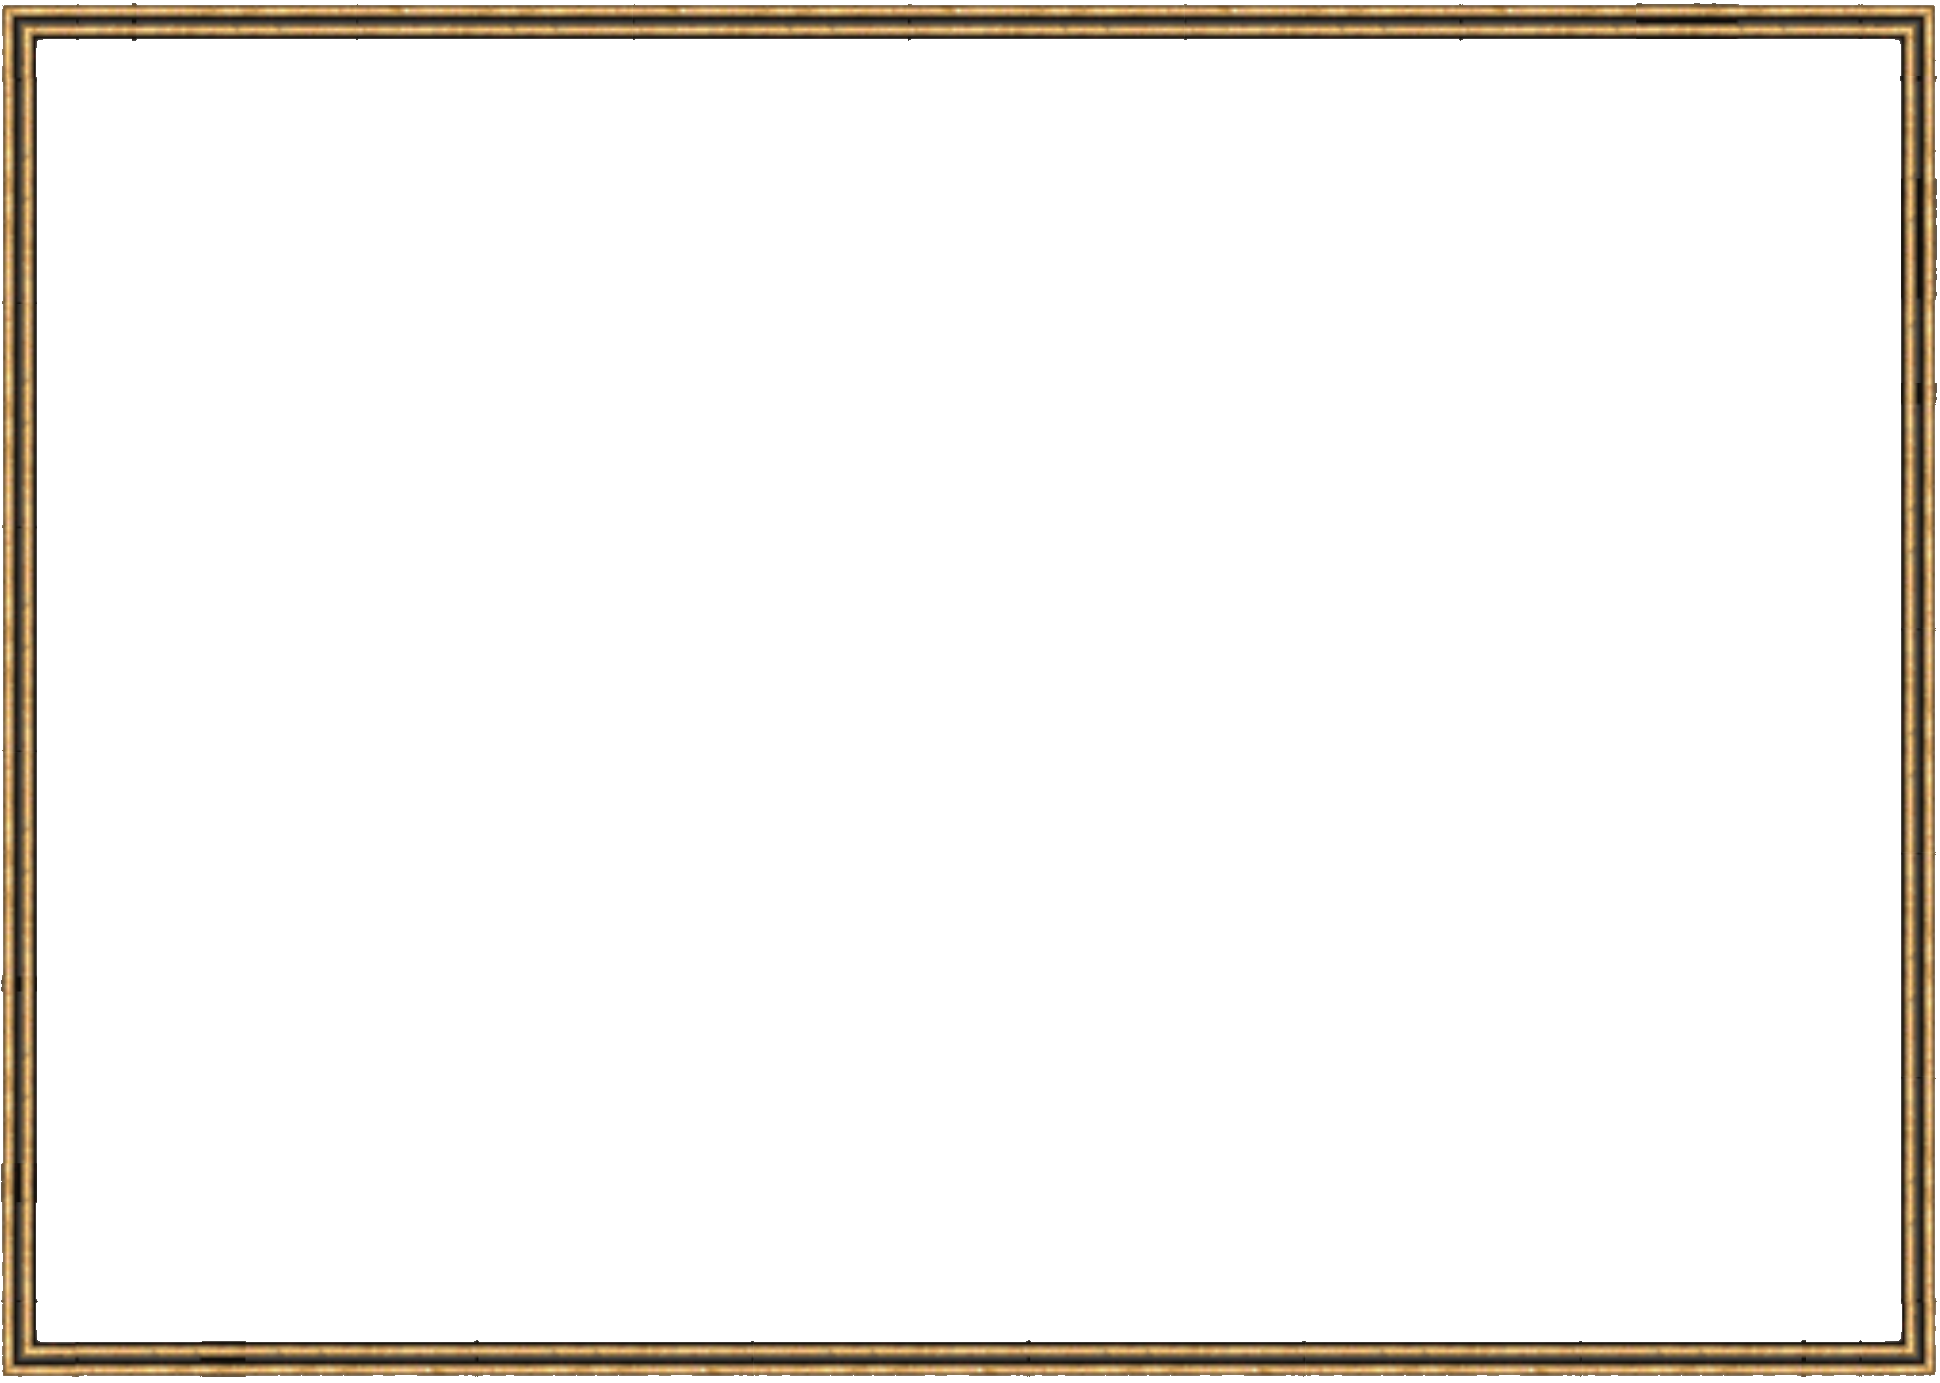
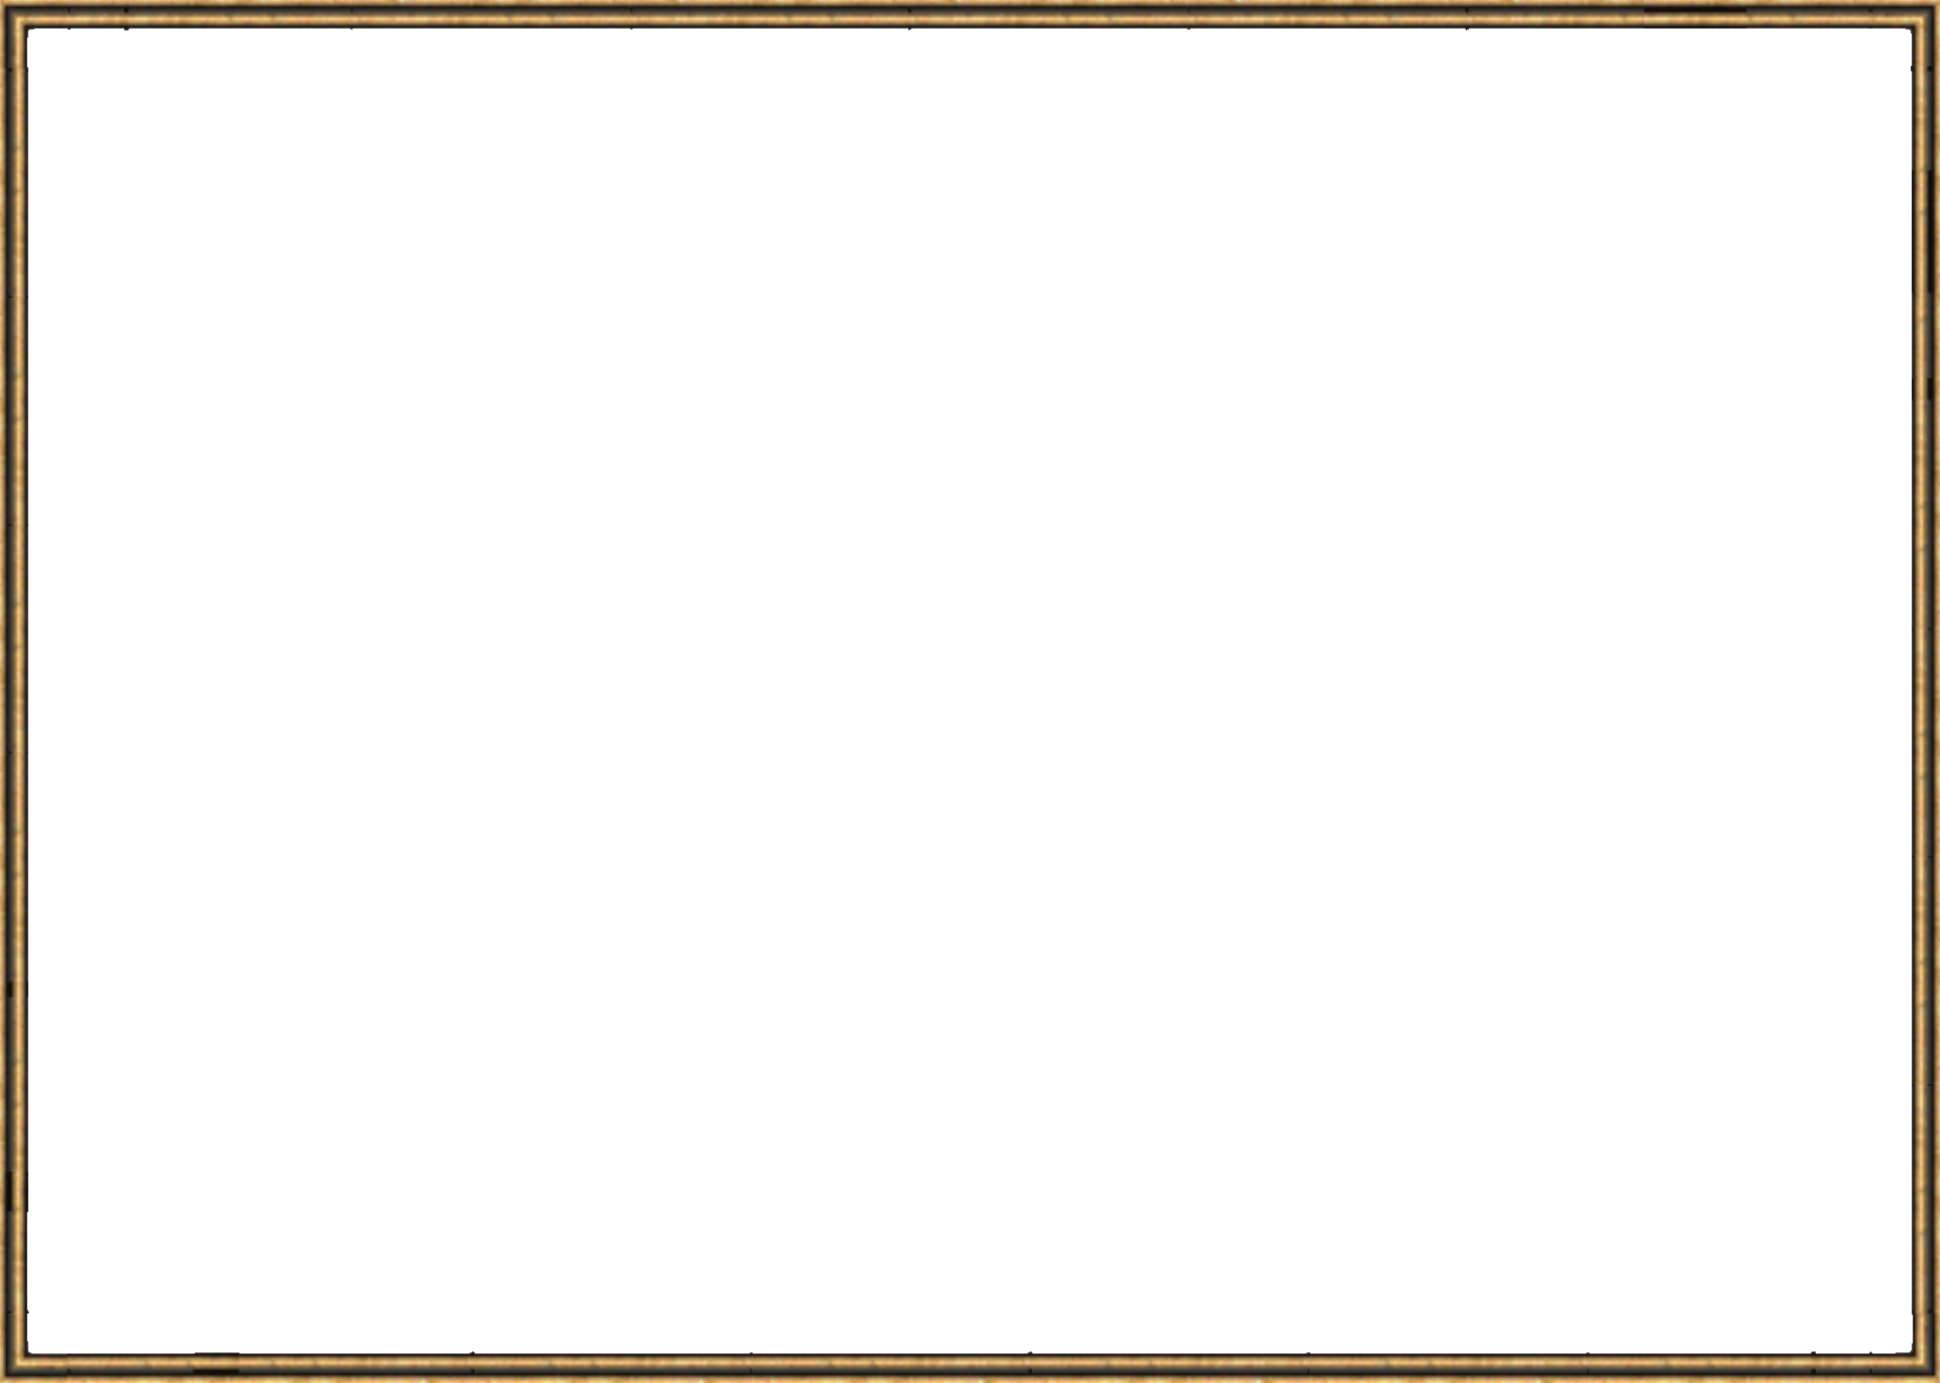
CS50x_Final_Project

Changed region(s): [[0.0, 0.0, 1.0, 1.0]]

diff --git a/templates/index.html b/templates/index.html
@@ -1,0 +1,123 @@
+<!DOCTYPE html>
+<html lang="en">
+    <head>
+        <meta charset="utf-8">
+        <meta name="viewport" content="width=device-width, initial-scale=1.0">
+        <title>Game</title>
+        <!-- Get Bootstrap -->
+        <link href="https://cdn.jsdelivr.net/npm/bootstrap@5.3.0-alpha1/dist/css/bootstrap.min.css" rel="stylesheet" integrity="sha384-GLhlTQ8iRABdZLl6O3oVMWSktQOp6b7In1Zl3/Jr59b6EGGoI1aFkw7cmDA6j6gD" crossorigin="anonymous">
+        <link rel="stylesheet" href="/game/static/game_style.css">
+    </head>
+    <body>
+
+        <div class="container-fluid">
+            
+            <div class="row justify-content-center align-items-center">
+                
+                <div class="col-3">
+                    <div class="row justify-content-center">
+                        <div id="start-button-container">
+                            <img id="button-start" src="/game/static/menu/Button.png">
+                            <img id="button-start-clicked" src="/game/static/menu/Button_clicked.png">
+                            <div id="start-button-text">New game</div>
+                        </div>
+                    </div>
+                    <!-- "Save score" button -->
+                    <div class="row justify-content-center">
+                        <div id="score-button-container">
+                            <img id="button-score" src="/game/static/menu/Button.png">
+                            <img id="button-score-clicked" src="/game/static/menu/Button_clicked.png">
+                            <div id="score-button-text">Save score</div>
+                        </div>
+                    </div>
+                    <!-- "View scores" button -->
+                    <div class="row justify-content-center">
+                        <div id="view-button-container">
+                            <img id="button-view" src="/game/static/menu/Button.png">
+                            <img id="button-view-clicked" src="/game/static/menu/Button_clicked.png">
+                            <div id="view-button-text">View scores</div>
+                        </div>
+                    </div>
+                    <!-- "Log out" button -->
+                    <div class="row justify-content-center">
+                        <div id="logout-button-container">
+                            <img id="button-logout" src="/game/static/menu/Button.png">
+                            <img id="button-logout-clicked" src="/game/static/menu/Button_clicked.png">
+                            <div id="logout-button-text">Log out</div>
+                        </div>
+                    </div>
+                </div>
+
+                <div class="col-6">
+                    <div class="row justify-content-center">
+                        <canvas id="game-canvas"></canvas>
+                        <img id="border" src="/game/static/menu/Border.png" alt="game-window-border">
+                        <!-- Title screen -->
+                        <img id="title" src="/game/static/background/Title.png">
+                        <!-- Background layers -->
+                        <img id="layer-0" src="/game/static/background/Layer_0010_1.png">
+                        <img id="layer-1" src="/game/static/background/Layer_0009_2.png">
+                        <img id="layer-2" src="/game/static/background/Layer_0008_3.png">
+                        <img id="layer-3" src="/game/static/background/Layer_0007_Lights.png">
+                        <img id="layer-4" src="/game/static/background/Layer_0006_4.png">
+                        <img id="layer-5" src="/game/static/background/Layer_0005_5.png">
+                        <img id="layer-6" src="/game/static/background/Layer_0004_Lights.png">
+                        <img id="layer-7" src="/game/static/background/Layer_0003_6.png">
+                        <img id="layer-8" src="/game/static/background/Layer_0002_7.png">
+                        <img id="layer-9" src="/game/static/background/Layer_0001_8.png">
+                        <img id="layer-10" src="/game/static/background/Layer_0000_9.png">
+                        <!-- Player sprite -->
+                        <img id="player" src="/game/static/player/wizard.png">
+                        <!-- Enemy sprite -->
+                        <img id="dragon" src="/game/static/enemies/dragon.png">
+                        <!-- Explosion sprite -->
+                        <img id="explosion" src="/game/static/explosion/explosion.png">
+                        <!-- Form to store player's score -->
+                    </div>
+                </div>
+
+                <div class="col-3">
+
+                    <div class="row justify-content-center">
+                        <!-- "Instructions" button -->
+                        <div id="instruction-button-container">
+                            <img id="button-instruction" src="/game/static/menu/Button.png">
+                            <img id="button-instruction-clicked" src="/game/static/menu/Button_clicked.png">
+                            <div id="instruction-button-text">Instructions</div>
+                        </div>
+                    </div>
+
+                    <div class="row justify-content-center">
+                        <div id="instruction-tablet-container">
+                            <img id="instruction-tablet" src="/game/static/menu/Instruction_tablet.png">
+                            <div id="instruction-tablet-text">
+                                Your beloved Forest has been infested by awful creatures from the North.
+                                You are the only one who can stand against the invadors.
+                                <br>
+                                <br>
+                                Embrace your destiny, become The Eradicator and defend your homeland!
+                                <br>
+                                <br>
+                                To control your character use:
+                                <ul>
+                                    <li>left/right arrow keys to move</li>
+                                    <li>up arrow key to jump</li>
+                                    <li>spacebar to attack</li>
+                                </ul>
+                                Try to eradicate as many enemies as you can!
+                            </div>
+                        </div>
+                    </div>
+
+                </div>
+
+            </div>
+
+        </div>
+
+        <!-- Get Bootstrap -->
+        <script src="https://cdn.jsdelivr.net/npm/bootstrap@5.3.0-alpha1/dist/js/bootstrap.bundle.min.js" integrity="sha384-w76AqPfDkMBDXo30jS1Sgez6pr3x5MlQ1ZAGC+nuZB+EYdgRZgiwxhTBTkF7CXvN" crossorigin="anonymous"></script>
+        <!-- Game code -->
+        <script src="/game/static/game_script.js"></script>
+    </body>
+</html>

diff --git a/static/game_style.css b/static/game_style.css
@@ -5,68 +5,58 @@ body {
     background-size: cover;
 }
 
-/* The following section divides the page into 2 columns to properly place the buttons around the game window */
+
 .row {
-    display: flex;
+    border: 1px black solid;
 }
 
-.column {
-    flex: 50%;
+.container-fluid {
+    margin-top: 5%;
+    border: 1px black solid;
 }
 
-/* Game window border */
-#border {
-    position: absolute;
-    width: 1432px;
-    height: 1044px;
-    transform: translate(-50%, -50%);
-    top: 50%;
-    left: 50%;
+.col-3 {
+    border: 1px black solid;
 }
 
-/* Game window itself */
-#game-container {
-    position: absolute;
-    width: 1392px;
-    height: 1000px;
-    transform: translate(-50%, -50%);
-    top: 50%;
-    left: 50%;
+.col-6 {
+    border: 1px black solid;
 }
 
-#game-canvas {
-    position: relative;
-    width: 1392px;
-    height: 1000px;
-}
-
-#title, #player, #dragon, #explosion, #layer-0, #layer-1, #layer-2, #layer-3, #layer-4, #layer-5, #layer-6, #layer-7, #layer-8, #layer-9, #layer-10 {
+#title, #border, #player, #dragon, #explosion, #layer-0, #layer-1, #layer-2, #layer-3, #layer-4, #layer-5, #layer-6, #layer-7, #layer-8, #layer-9, #layer-10 {
     display: none;
 }
 
 /* Button containers */
 #start-button-container { /* "New game" container */
     position: relative;
-    margin-top: 24%;
-    margin-left: 8%;
-    width: 400px;
+    width: 70%;
+    margin-top: 8%;
+    margin-bottom: 8%;
     text-align: center;
+    padding-left: 0%;
+    padding-right: 0%;
+    border: 1px black solid;
 }
 
 #score-button-container, #view-button-container, #logout-button-container {
     position: relative;
+    width: 70%;
     margin-top: 8%;
-    margin-left: 8%;
-    width: 400px;
-    text-align: center
+    margin-bottom: 8%;
+    text-align: center;
+    padding-left: 0%;
+    padding-right: 0%;
+    border: 1px black solid;
 }
 
 #instruction-button-container {
     position: relative;
-    margin-top: 14%;
-    margin-left: 62%;
-    width: 400px;
-    text-align: center
+    text-align: center;
+    width: 70%;
+    padding-left: 0%;
+    padding-right: 0%;
+    border: 1px black solid;
 }
 
 #start-button-container:hover, #score-button-container:hover,
@@ -78,35 +68,32 @@ body {
 /* Button images */
 #button-start, #button-score, #button-view, #button-logout, #button-instruction {
     width: 100%;
-    height: auto;
 }
 
 #button-start-clicked, #button-score-clicked, #button-view-clicked, #button-logout-clicked, #button-instruction-clicked {
     width: 100%;
-    height: auto;
     display: none;
 }
 
 /* Button text */
 #start-button-text, #score-button-text, #view-button-text, #logout-button-text, #instruction-button-text {
     position: absolute;
+    transform: translate(-50%, -50%);
     top: 50%;
     left: 50%;
-    transform: translate(-50%, -50%);
     font-family: Luminari, Papyrus, fantasy;
-    font-size: 35px;
+    font-size: 1.1vw;
     color: white;
+    border: 1px black solid;
 }
 
 #instruction-tablet-container {
     position: relative;
-    margin-top: 2%;
-    margin-left: 56.5%;
-    width: 550px;
     text-align: justify;
 }
 
 #instruction-tablet {
+    position: relative;
     width: 100%;
     height: auto;
     display: none;
@@ -117,12 +104,10 @@ body {
 #instruction-tablet-text {
     position: absolute;
     top: 50%;
-    left: 34%;
-    width: 430px;
+    left: 38%;
     transform: translate(-30%, -50%);
     font-family: Luminari, Papyrus, fantasy;
-    font-size: 29px;
-    font-stretch: expanded;
+    font-size: 1.05vw;
     color: white;
     display: none;
     animation-name: animate;

diff --git a/static/game_script.js b/static/game_script.js
@@ -70,6 +70,9 @@ window.addEventListener("load", function() {
     context.fillStyle = "white";
     context.font = "120px Luminari, Papyrus, fantasy";
     context.fillText("The Eradicator", canvas.width / 2 + 3, canvas.height / 2 + 3);
+    // Display game border
+    let border = document.getElementById("border");
+    context.drawImage(border, 0, 0, canvas.width, canvas.height);
     // Variable to control game starting
     let gameStarted = false;
     
@@ -204,7 +207,7 @@ window.addEventListener("load", function() {
                     this.gameHeight = gameHeight;
                     this.width = 256;
                     this.height = 128;
-                    this.x = -60; // Put the player as close to the right border as possible
+                    this.x = -40; // Put the player as close to the right border as possible
                     this.y = this.gameHeight - (this.height + 120); // Put the player on the grass
                     // Get the sprite image from game.html
                     this.image = document.getElementById("player");
@@ -393,11 +396,11 @@ window.addEventListener("load", function() {
                         this.x += this.speed;
                     }
                     // Make sure player doesn't go beyond canvas borders horizontally
-                    if (this.x < -60) { // Left border
-                        this.x = -60;
+                    if (this.x < -40) { // Left border
+                        this.x = -40;
                     }
-                    else if (this.x > this.gameWidth - this.width + 120) { // Right border
-                        this.x = this.gameWidth - this.width + 120;
+                    else if (this.x > this.gameWidth - this.width + 100) { // Right border
+                        this.x = this.gameWidth - this.width + 100;
                     }
                     
                     // VERTICAL MOVEMENT
@@ -716,11 +719,11 @@ window.addEventListener("load", function() {
                 // Black &...
                 context.fillStyle = "black";
                 context.font = "40px Luminari, Papyrus, fantasy";
-                context.fillText("Score: " + score, 100, 60);
+                context.fillText("Score: " + score, 110, 70);
                 // ...& white for shade effect
                 context.fillStyle = "white";
                 context.font = "40px Luminari, Papyrus, fantasy";
-                context.fillText("Score: " + score, 104, 64);
+                context.fillText("Score: " + score, 114, 74);
 
                 // Display level message according to current level
                 if (levelTimer > 0 && gameOver == false) {
@@ -892,6 +895,8 @@ window.addEventListener("load", function() {
                     music.play(); // Play the background music
                     requestAnimationFrame(animate); // Keep playing
                 }
+                // Draw the game window border
+                context.drawImage(border, 0, 0, canvas.width, canvas.height);                              
             }
             animate(0); // Call the animation loop, passing a non-significant argument for the first time (no timeStamp yet)
         }
